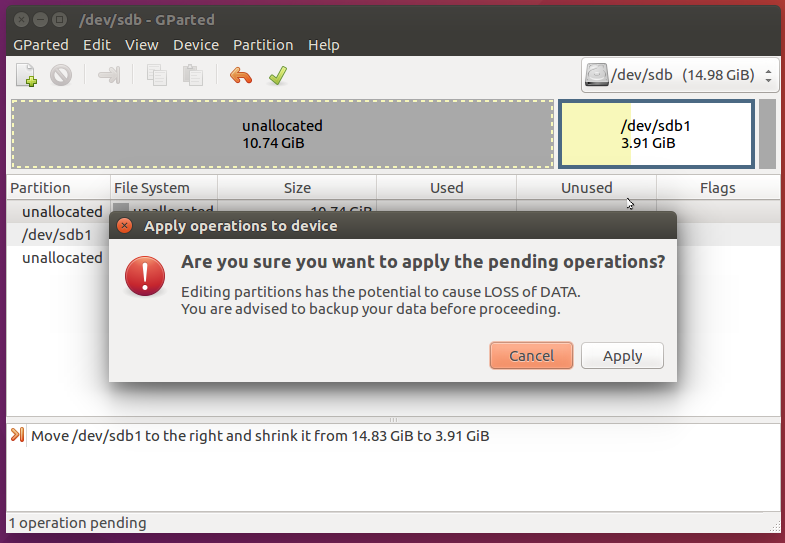
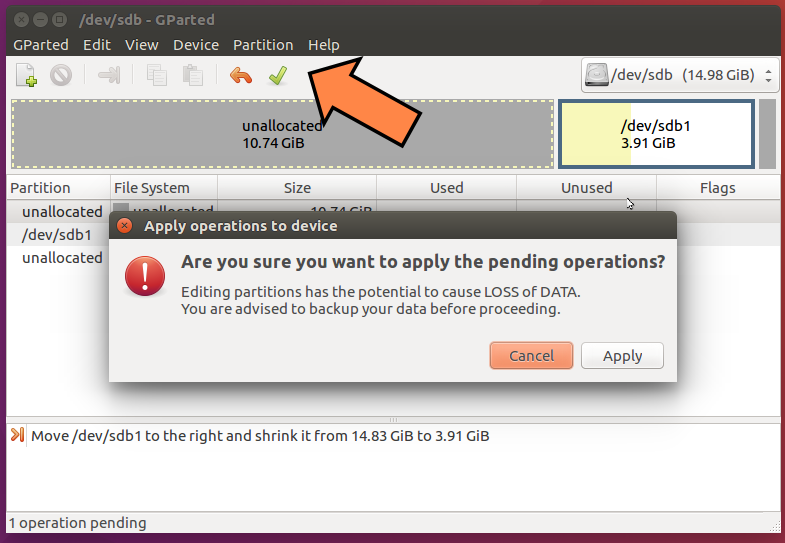
version 1 of the creating FAT32 on microSD

Changed region(s): [[0.3975, 0.0884, 0.5503, 0.2652]]

diff --git a/Creating vFAT on microSD card.md b/Creating vFAT on microSD card.md
@@ -1,38 +1,155 @@
+<!-- TOC -->
+
+- [Utilizing Your Existing microSD Boot Card for Your Media Files](#utilizing-your-existing-microsd-boot-card-for-your-media-files)
+    - [Step 1: Initializing the microSD Image](#step-1-initializing-the-microsd-image)
+    - [Step 2: Getting an Ubuntu Instance in a Virtual Machine](#step-2-getting-an-ubuntu-instance-in-a-virtual-machine)
+    - [Step 3: Installing gparted](#step-3-installing-gparted)
+    - [Step 4: Selecting the microSD Device](#step-4-selecting-the-microsd-device)
+    - [Step 5: Unmounting the USB device](#step-5-unmounting-the-usb-device)
+    - [Step 6: Resize/Move the ext4 Partition](#step-6-resizemove-the-ext4-partition)
+    - [Step 7: Creating a FAT32 Partition](#step-7-creating-a-fat32-partition)
+    - [Step 8: Use gedit to Modify fstab](#step-8-use-gedit-to-modify-fstab)
+    - [Step 9: Final Steps](#step-9-final-steps)
+
+<!-- /TOC -->
 # Utilizing Your Existing microSD Boot Card for Your Media Files
 
-A the time of writing this walkthrough, the prices for a 16 Gb microSD card are lower than the price of an 8 Gb card.  The ConnectBox microSD card only really requires around 2 Gb of space for the OS to properly operate.  That means that you essentially waste a lot of the capacity of your microSD card.
+A the time of writing this walkthrough, the prices for a 16 Gb microSD card are significantly lower than the price of an 8 Gb card.  The operating system on the ConnectBox's microSD card only really requires around 2 Gb of space for the OS to properly operate.  That means that you are essentially wasting a lot of the capacity of your microSD card that you could use to store your data in.
 
-If you are one of those groups that has essentially static content that you want to distribute via a ConnectBox, you probably want to consider modifying your microSD card so that you can create a media partition on it that is accessable from another, more standard, computer (e.g., Windows or Mac). This will allow you to only need the one microSD card that does both the ConnectBox OS boot and also contains your media. You will save some costs and time by only using the one microSD card.
+If you are one of those groups that has essentially static content that you want to distribute via a ConnectBox, you probably want to consider modifying your microSD card so that you can create a media partition on it that is accessable from another, more standard, computer (e.g., Windows or Mac). This will allow you to only need the one internal microSD card that contains both the ConnectBox OS boot and also contains your website/media. You will end up saving some costs and time by only using the one microSD card and not have to replicate multiple memory cards.
 
-If you have content that might change more frequently, this is probably a bad option for you as it will require the end user to take apart the ConnectBox case each time that something needs to be updated. This process really is for when you have relatively static media content that you want to distribute around and not have to open up the ConnectBox case. It is ideal for rapidly duplicating content to other microSD cards.
+If you have content that might change more frequently, this is probably a bad option for you as it will require the end user to take apart the ConnectBox case each time that something needs to be updated. The below described process really is for when you have relatively static media content that you want to distribute around and not requiring that you open up the ConnectBox case. It is ideal for rapidly duplicating content to other microSD cards.  
 
-## Step 1: Resizing the Boot OS on the microSD
+If your content does change often, just put the content onto an external USB stick so you the media is easily accessable for when you want to modify it.
 
-Once your base ConnectBox image has been burned to a microSD card, the first step is to resize that partion down from taking up the entire card's space to only that which is necessary for the OS to boot and operate the device. Since this is a Linux partition, the easiest way to resize the card is to complete the action within a graphical Linux OS (i.e., Ubuntu or Debian). From the Linux Desktop (in this case I'll be using an Ubuntu 16.04 computer), you'll want to install the program `gparted`. Do a search for the program and if it doesn't show up, it should prompt you to install it. 
+There are a few things to watch out for when repartitioning your microSD card like described below. Please follow the directions exactly to obtain the best results.
 
-![gparted install](partition_gparted_install.png "Install gparted on Ubuntu")
+## Step 1: Initializing the microSD Image
 
-Once you do that then run it.
+Once your base ConnectBox image has been burned to a microSD card, the first step is to install it on the ConnectBox device and let it boot up.  The intial booting process initializes the device and beyond setting up the device, it also modifies the partition on the microSD card by taking up almost all the rest of the free space on the card.  It does leave a buffer or empty space at the end of the card which is important to do when you decide to mirror the final image around to other microSD cards.  Different card vendors can have slightly different sizes even though they all report the same size in gigabytes.  The intital setup and resizing takes several minutes to complete, so wait a while and make yourself some tea. You will be able to tell when it is complete by when the "ConnectBox - Free Media" SSID shows up as being available as a WiFi connection on your devices.  At that point, switch off the ConnectBox using the switch and allow it to shutdown completely.  Take the microSD card out of your ConnectBox for the next part.
 
+## Step 2: Getting an Ubuntu Instance in a Virtual Machine 
 
+We'll now want to resize that partion down from taking up nearly all the entire card's space to only that which is necessary for the OS to boot and operate the device. Since this is a Linux partition, the easiest way to resize the card is to complete the action within a graphical Linux OS (i.e., Ubuntu or Debian).  If you don't have a Linux system handy, you can run it within a virtual machine (e.g., VMWare Player [VMWare Player](https://www.vmware.com/products/workstation-player.html "VMWare Player") or Oracle's VM VirtualBox [VirtualBox](https://www.virtualbox.org/ "VirtualBox")). Setting up these virtual machines isn't overly difficult and there are good guides to doing so on the internet. I would suggest following the video guide here: [YouTube](https://www.youtube.com/watch?v=RBU1xMP-SGc "YouTube")
 
+## Step 3: Installing gparted
 
+From the Linux Desktop (in this case I'll be using an Ubuntu 16.04 computer), you'll want to install the program `gparted` which allows us to modify and create partitions on the microSD. By clicking on the orange "Ubuntu Software" icon on the left dock, do a search for the gparted program and then install it. 
 
+![gparted search](partition_gparted_install.png "Install gparted on Ubuntu")
 
+## Step 4: Selecting the microSD Device
 
+After it is installed, attach your microSD card to the machine that is running VirtualBox. You'll need to click onto the VirtualBox Window's menu and select \Devices\USB\ and then pick the device that is your microSD card. Doing this will transfer control from your host computer (Windows) to your Ubuntu computer running inside the VirtualBox.
 
-Eject disk from Ubuntu
+![gparted USB](partition_gparted_select_USB.png "Transfer USB to VM")
 
+Once you do that, then run gparted. By default, gparted comes up with your own virtual machine's hard drive (/dev/sda). We don't want that. So you'll need to select from the drop down menu on the upper right side the correct drive. Usually, this should be the second one; /dev/sdb. Ensure that the reported size of the drive roughly matches the size of your microSD card.
 
+![gparted Select USB](partition_gparted_select_drive.png "Select USB Drive")
 
-```BASH
-root@connectbox:~# lsblk -f
-NAME        FSTYPE LABEL   UUID                                 MOUNTPOINT
-sda
-└─sda1      vfat   KAISER  F65C-E2C0                            /media/usb0
-mmcblk0
-├─mmcblk0p2 vfat   WINSIDE D2D0-8176
-└─mmcblk0p1 ext4           50046acd-904a-492b-8e10-c2fc66e67ce4 /
-```
+You'll notice that the partion on the drive is currently one massive ext4 partition with a small amount of unallocated space at the end (right side) of the drive.
+
+## Step 5: Unmounting the USB device
+
+Before we can do anything with this drive, we need to tell it to unmount itself from the operating system. Right click on the yellow and white bar and select "Unmount".
+
+![gparted resize](partition_gparted_unmount_1.png "Resize Partition")
+
+## Step 6: Resize/Move the ext4 Partition
+
+Putting your cursor over the partition, right click on it to bring up a menu and select "Resize/Move"
+
+![gparted resize](partition_gparted_resize_2.png "Resize Partition")
+
+In the box that shows up, click in the second box down and change the existing number to 4000.
+
+![gparted resize](partition_gparted_resize_3.png "Resize Partition")
+
+Then go to the first box and fill in the rounded number of the remaining space. In my example with a 16Gb microSD card, I'm allocating roughly 11000 megabytes and that will automatically calculate the third box's (Free space following) number. As stated above, we want to leave a small buffer at the end of at least 128 MiB. We'll leave the 342 number as the 11Gb of space in the front is enough to store all our media. You'll need to adjust your sizes in these boxes to match the capacity of your card. Just remember to make the ext4 drive about 4Gb and leave that buffer space after.
+
+Click the "Resize/Move" button
+
+![gparted resize](partition_gparted_resize_4.png "Resize Partition")
+
+A warning screen will come up...just click the "OK" button
+
+![gparted resize](partition_gparted_resize_5.png "Resize Partition")
+
+On the top menu, first click the green checkmark icon.  Another warning will come up.  Click on the "Apply" button.
+
+![gparted resize](partition_gparted_resize_6.png "Resize Partition")
+
+The process will start of resizing and moving the partition around on your microSD card. This can take a very long time to complete...  You'll want to look at the details as the process move along checking for disk errors. If there are disk errors, you probably should start from the beginning again or use a new microSD card.
+
+![gparted resize](partition_gparted_resize_7.png "Resize Partition")
+
+The reason that we not only resized the partition down but also moved it towards the end of the space is that if we want to plug this device onto a Windows machine to copy content over, Windows requires that the partition for the media be first on the microSD card.
+
+## Step 7: Creating a FAT32 Partition
+
+Once that operation is complete, we'll now need to convert that unalloced space into a new partition that we can use to store our media data. With our mouse over the gray partition labeled "unallocated", right click. From the menu, select "New".
+
+![gparted resize](partition_gparted_resize_8.png "Resize Partition")
+
+A new window will come up that wants to know how to create that new partition.
+
+1. Make sure that the "Create as:" box is changed to **Primary Partition**
+
+2. Change "File system" to be **fat32**
+
+3. And change the "Label" to be **WIN-SIDE** so we can tell what this partition is from the others
+
+Click the "Add" button.
+
+![gparted resize](partition_gparted_resize_9.png "Resize Partition")
+
+Once again, a warning message will come up. Click on the "Apply" button to continue.
+
+![gparted resize](partition_gparted_resize_10.png "Resize Partition")
+
+This will take a relatively short bit of time to complete.
+
+![gparted resize](partition_gparted_resize_11.png "Resize Partition")
+
+Once the process has finished successfully, you'll get a screen like this:
+
+![gparted resize](partition_gparted_resize_12.png "Resize Partition")
+
+You'll notice that the first partition is a fat32 one (where our media will go), the second is ext4 (where the ConnectBox's boot operating system is located), and the final unallocated space that gives us a buffer for when we want to mirror the microSD card out.
+
+## Step 8: Use gedit to Modify fstab
+
+Close the gparted program and Ubuntu should automatically mount both of the partitions. One will be labeled "WIN-SIDE" and the other will just say the size of the device. Click on the USB icon for the unlabeled on to open it in a file browser. Click on the folder named "etc" to open it. Scroll down till you see the file called "fstab". We'll need to edit this file to add in one new line that will allow the ConnectBox to automatically mount the partition.
+
+Using the Ubuntu search, look for the program "Terminal" and then click on it to launch it.
+
+![Terminal](partition_gparted_terminal.png "Terminal")
+
+At the terminal, you'll need to first find out the "UUID" for the WIN-SIDE partition we made.  You do that by typing in `lsblk -f'
+
+![Terminal](partition_gparted_terminal_2.png "Terminal")
+
+In the above picture, what we are looking for is the "UUID" for our "WIN-SIDE" partition.  Make a note of your ID as we'll use it in a momement.
+
+Next thing you need to do is type: `sudo gedit` at the command prompt followed by your user's password. This will launch up a graphical text editor in which we can edit the `fstab` file. From the file window, drag and drop the `fstab` file into the gedit window to edit it.
+
+Go the end of the text file and add in a new line. **It is very important that you type this in exactly like show with the proper case and spacing. Double check this.**
 
 `UUID=D2D0-8176 /media/usb0 vfat sync,noexec,nodev,noatime,nodiratime,utf8`
+
+Replace the `UUID=D2D0-8176` portion with the UUID that you wrote down earlier. Double check your work and save the file and close the editor.
+
+![Terminal](partition_gparted_terminal_3.png "Terminal")
+
+## Step 9: Final Steps
+
+Eject disk from Ubuntu. You can now use this on a Window's or Mac computer to add in your media to the new partition.
+
+<span style="color:red">**One bit of warning:**</span> Windows is not going to like the "ext4" partition and will complain about when you add it to the machine. Expect to get something like this:
+
+![Terminal](partition_windows_error.png "Terminal")
+
+Be sure to hit "Cancel" to close out the window and any others that pop up.
+
+On Windows, just open up the new drive that is labeled "WIN-SIDE" and drop your media files in there. Install the microSD card into the ConnectBox and boot up.  As long as you don't plug in an additional USB drive to the outside of the unit, your media files will now be shown by default. You have now just created a single microSD card that holds the ConnectBox operating system and all your media files.
